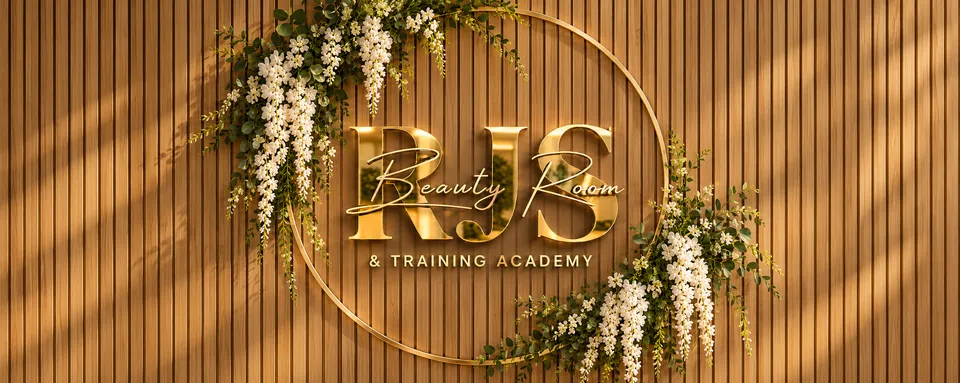
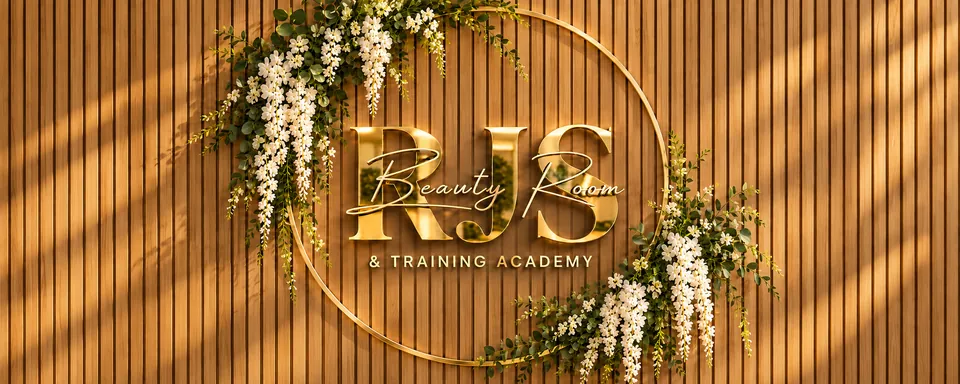
Add files via upload

diff --git a/index.html b/index.html
@@ -660,8 +660,7 @@
 <main id="top">
   <div class="hero">
     <picture>
-      <source media="(max-width: 700px)" srcset="assets/banner-sm.webp">
-      <img src="assets/banner.webp" alt="The RJS Beauty Room sign in gold on a wood-panelled wall, framed by white flowers" width="1920" height="768" fetchpriority="high">
+      <img src="assets/banner.webp" srcset="assets/banner-sm.webp 960w, assets/banner-md.webp 1600w, assets/banner.webp 2400w, assets/banner-xl.webp 3200w" sizes="100vw" alt="The RJS Beauty Room sign in gold on a wood-panelled wall, framed by white flowers" width="3840" height="1536" fetchpriority="high">
     </picture>
   </div>
   <div class="hero-band">
